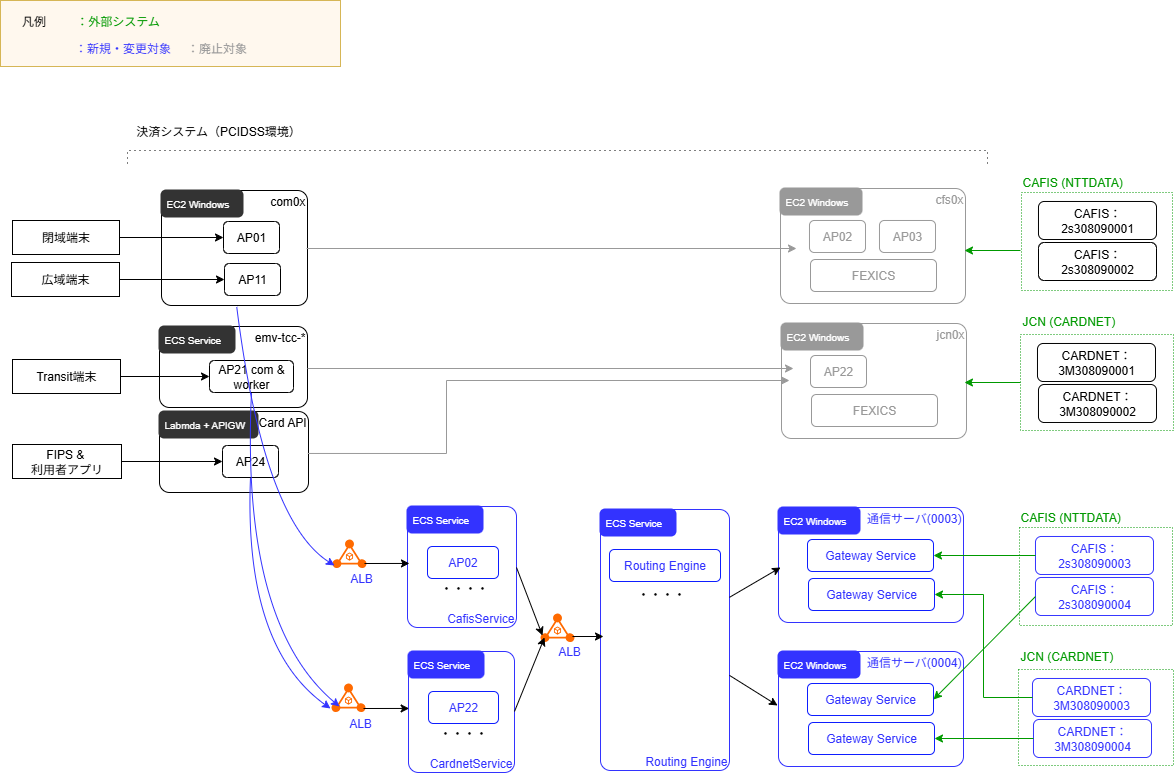
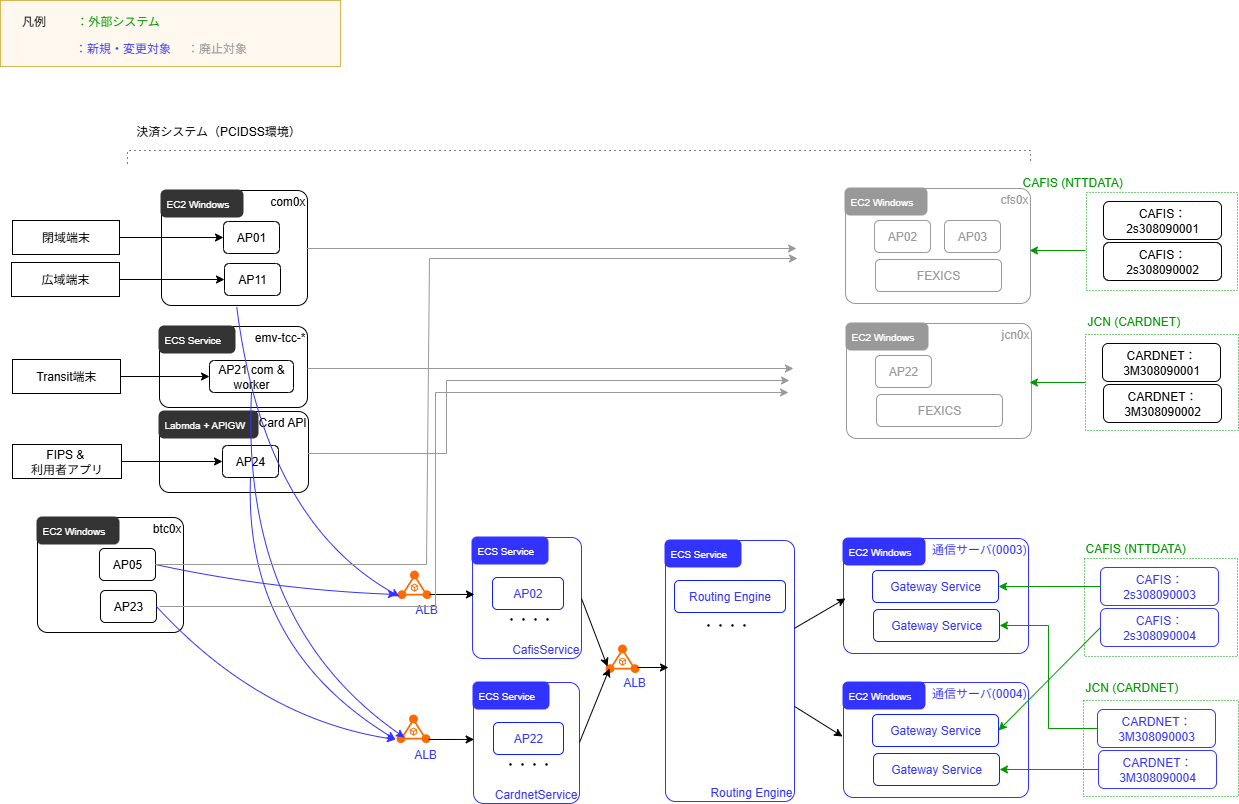
０３

diff --git a/FEXICS/03-architecture_proposal.md b/FEXICS/03-architecture_proposal.md
@@ -7,6 +7,7 @@
 | v0.1       | 2026-01-29 | 初版作成                         | 内川 修司 |
 | v0.2       | 2026-02-09 | 文言の調整 (仕向け先⇒接続コードに変更) <br/> 言語選定のメモ | k_yoshizawa |
 | v0.3       | 2026-02-19 | タイトルから(案)の除去、インフラ構成のレビュー結果反映 | k_yoshizawa |
+| v0.4       | 2026-02-26 | レビュー結果反映 （バッチ関連追加） | k_yoshizawa |
 
 ---
 
@@ -73,8 +74,9 @@ FEXICSおよびCAFIS通信アプリ（AP03）を廃止し、新規に**Routing E
 | FEXICS | 廃止 | cfs0x | EOL対応（本プロジェクトの主目的） |
 | AP03 (CAFIS通信制御) | 廃止 | cfs0x | FEXICS廃止に伴い |
 | AP02 (CAFIS業務ロジック) | 更新 | cfs0x | ECSに対応し新規配置、接続先を routing engine に対応 |
-| AP01 (端末間通信:閉域) | 更新 | com0x | 顧客指定での通信先切替 | 
-| AP11 (端末間通信:広域) | 更新 | com0x | 顧客指定での通信先切替 | 
+| AP05 (CAFISバッチ処理) | 更新 | btc0x | 新規環境を通信先に含む |
+| AP01 (端末間通信:閉域) | 更新 | com0x | 顧客指定での通信先切替 |
+| AP11 (端末間通信:広域) | 更新 | com0x | 顧客指定での通信先切替 |
 | routing engine | 新規 | - | 接続先コードによる gateway service への中継を行う |
 | gateway service | 新規 | - | CAFIS / CARDNET への接続機能。決済ネットワーク事業者 = MC間の契約回線ごとに配置 |
 
@@ -83,8 +85,9 @@ FEXICSおよびCAFIS通信アプリ（AP03）を廃止し、新規に**Routing E
 | コンポーネント | 区分 | 現行配置サーバ | 詳細 |
 | --- | --- | --- | --- |
 | FEXICS | 廃止 | jcn0x | EOL対応（本プロジェクトの主目的） |
+| AP21 (Transit端末間通信) | 更新 | ECS | 顧客指定での通信先切替 |
 | AP22 (CARDNET業務ロジック) | 更新 | jcn0x | ECSに対応し新規配置、接続先を routing engine に対応 |
-| AP21 (Transit端末間通信) | 更新 | ECS | 顧客指定での通信先切替 | 
+| AP23 (CARDNETバッチ処理) | 更新 | btc0x | 新規環境を通信先に含む |
 | AP24 (Webアプリ向けAPI) | 更新 | Lambda | 通信先切替 |
 
 **その他**
@@ -116,7 +119,7 @@ ECS はリタイアリングにより、TCP 常時接続が維持できない。
 #### 開発環境の動作
 
 開発環境はカード会社ネットワークへの接続が行えないため、`Dummy Server` アプリケーションを
-通信サーバ(000x) 内に配置し、CAFIS/CARDNET 動作のエミュレートを行います。
+通信サーバ(000x) 内に配置し、CAFIS/CARDNET 動作のエミュレートを行う。
 
 ---
 
